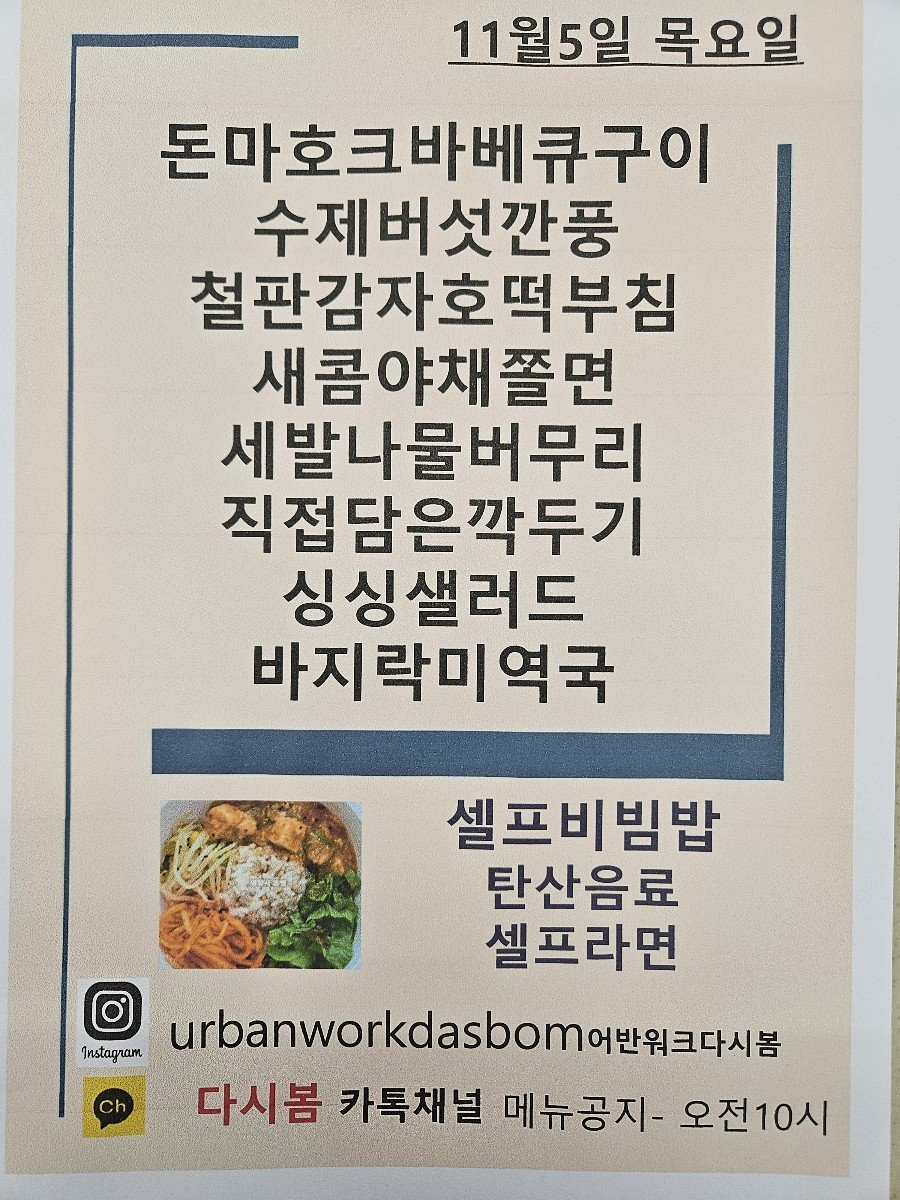
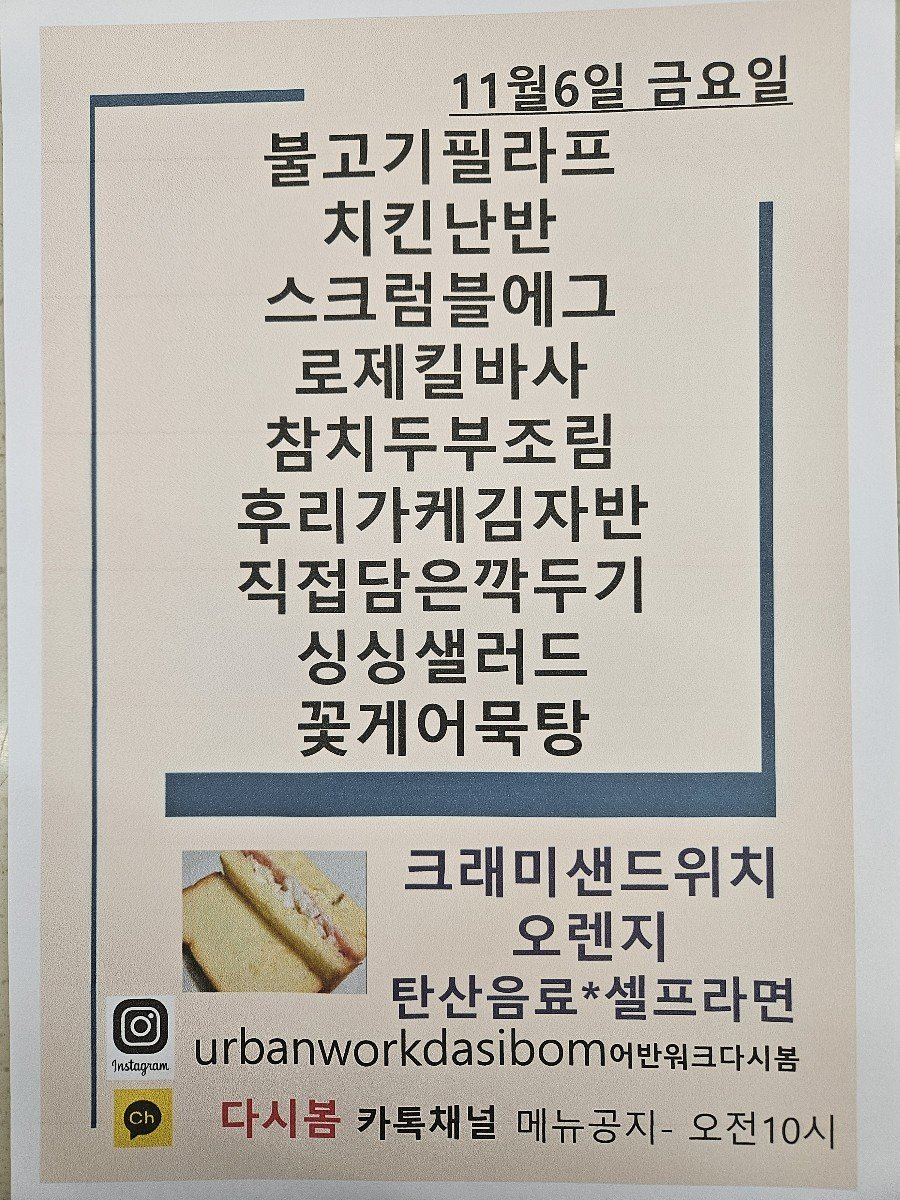
Update menu board assets

diff --git a/menu-today/index.html b/menu-today/index.html
@@ -209,7 +209,7 @@
 
     <section class="meta-bar">
       <div class="meta-card"><div class="meta-label">기준 날짜</div><div class="meta-value">2026년 11월 6일 금요일</div></div>
-      <div class="meta-card"><div class="meta-label">최종 가져온 시간</div><div class="meta-value">2026-11-06 09:48:30</div></div>
+      <div class="meta-card"><div class="meta-label">최종 가져온 시간</div><div class="meta-value">2026-11-06 10:03:12</div></div>
       <div class="meta-card"><div class="meta-label">확인 완료</div><div class="meta-value">9개 식당</div></div>
       <div class="meta-card"><div class="meta-label">준비중</div><div class="meta-value">3개 채널</div></div>
     </section>
@@ -225,7 +225,7 @@
             <div class="sub">현대테라타워 가산DK</div>
           </div>
         </div>
-        <div class="menu-inline-image"><img src="./images/imeal.png" alt="아이밀 식단 이미지"></div><ul><li>소고기못국</li><li>수제통살치킨버거</li><li>치즈스틱</li><li>크림파스타</li><li>콘샐러드</li><li>숙주나물</li><li>가든샐러드</li><li>볶음김치</li><li>백미밥 / 흑미밥</li><li>부으 기</li><li>타사은료</li></ul>
+        <div class="menu-inline-image"><img src="./images/imeal.png" alt="아이밀 식단 이미지"></div><ul><li>소고기못국</li><li>수제통살치킨버거</li><li>치즈스틱</li><li>크림파스타</li><li>콘샐러드</li><li>숙주나물</li><li>가든샐러드 &amp; 오렌지D</li><li>볶음김치</li><li>백미밥 / 흑미밥</li><li>부으 기</li><li>타사은료</li></ul>
       </article>
 
       <article class="restaurant-card">
@@ -235,7 +235,7 @@
             <div class="sub">가산 어반워크</div>
           </div>
         </div>
-        <div class="menu-inline-image"><img src="./images/dasibom.png" alt="다시 봄 식단 이미지"></div><ul><li>돈마호크바베큐구이</li><li>수제버섯깐풍</li><li>철판감자호떡부침</li><li>세발나물버무리</li><li>바지락미역국</li><li>목요일</li><li>저 판감자호 [더 브 지</li><li>세발나물버</li></ul>
+        <div class="menu-inline-image"><img src="./images/dasibom.png" alt="다시 봄 식단 이미지"></div><ul><li>불고기필라프</li><li>스크럼블에그</li><li>킬바사</li><li>참치두부조림</li><li>후리가케김자반</li><li>싱싱샐러드</li><li>꽃게어묵탕</li><li>비노 ea 으</li></ul>
       </article>
 
       <article class="restaurant-card">

diff --git a/guro-menu/index.html b/guro-menu/index.html
@@ -32,7 +32,7 @@
   </header>
   <section class="meta">
     <div><small>기준 날짜</small><strong>2026년 11월 6일 금요일</strong></div>
-    <div><small>최종 갱신</small><strong>2026-11-06 09:48:45</strong></div>
+    <div><small>최종 갱신</small><strong>2026-11-06 10:03:24</strong></div>
     <div><small>등록 식당</small><strong>5개</strong></div>
   </section>
   <div class="notice">공개 카카오 채널의 메뉴 이미지를 자동 수집하고 OCR로 정리합니다. 텍스트에 오타가 있을 수 있으니 식단 이미지를 함께 확인해 주세요.</div>
